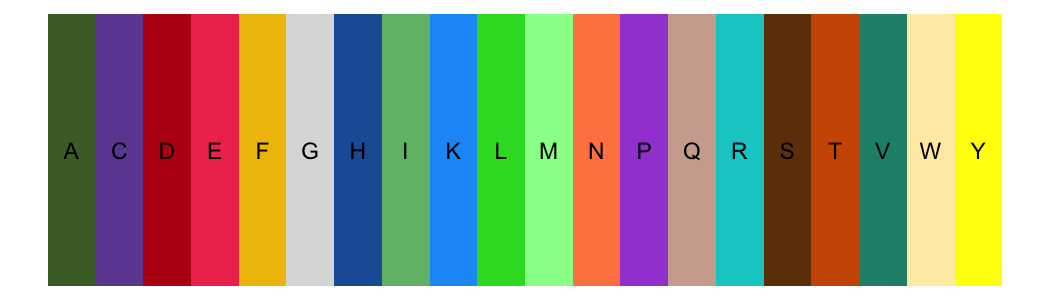
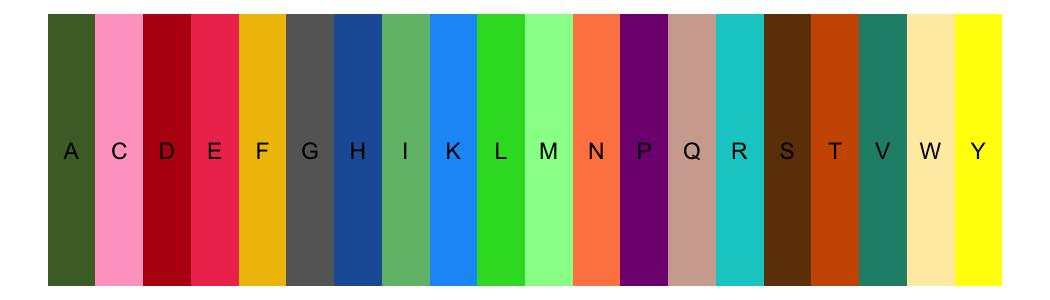
Sync typical palette colours from package_data
Update the typical scheme: C #FFA6C9 (carnation pink), G #666666, P #800080;
deutan min_deltaE 2.4 -> 3.2. Regenerate derived files (CSV, Jalview .jc,
swatches.html, logo, README badges) and, for R, the README + figures.

Changed region(s): [[0.579, 0.03, 0.64, 0.96], [0.2743, 0.03, 0.3352, 0.96], [0.0914, 0.03, 0.1524, 0.96]]

diff --git a/aapalette/README.md b/aapalette/README.md
@@ -5,7 +5,7 @@
 
 <!-- aapalette logo (shields.io coloured residues) -->
 
-![A](https://img.shields.io/static/v1?label=&message=A&color=4C6B30&style=flat-square)![A](https://img.shields.io/static/v1?label=&message=A&color=4C6B30&style=flat-square)![P](https://img.shields.io/static/v1?label=&message=P&color=A44DD7&style=flat-square)![A](https://img.shields.io/static/v1?label=&message=A&color=4C6B30&style=flat-square)![L](https://img.shields.io/static/v1?label=&message=L&color=2ADB2A&style=flat-square)![E](https://img.shields.io/static/v1?label=&message=E&color=EE3B5C&style=flat-square)![T](https://img.shields.io/static/v1?label=&message=T&color=CD5700&style=flat-square)![T](https://img.shields.io/static/v1?label=&message=T&color=CD5700&style=flat-square)![E](https://img.shields.io/static/v1?label=&message=E&color=EE3B5C&style=flat-square)
+![A](https://img.shields.io/static/v1?label=&message=A&color=4C6B30&style=flat-square)![A](https://img.shields.io/static/v1?label=&message=A&color=4C6B30&style=flat-square)![P](https://img.shields.io/static/v1?label=&message=P&color=800080&style=flat-square)![A](https://img.shields.io/static/v1?label=&message=A&color=4C6B30&style=flat-square)![L](https://img.shields.io/static/v1?label=&message=L&color=2ADB2A&style=flat-square)![E](https://img.shields.io/static/v1?label=&message=E&color=EE3B5C&style=flat-square)![T](https://img.shields.io/static/v1?label=&message=T&color=CD5700&style=flat-square)![T](https://img.shields.io/static/v1?label=&message=T&color=CD5700&style=flat-square)![E](https://img.shields.io/static/v1?label=&message=E&color=EE3B5C&style=flat-square)
 
 <!-- badges: start -->
 <!-- badges: end -->
@@ -92,9 +92,9 @@ Get a palette as a named character vector in canonical residue order
 ``` r
 aa_palette("typical")
 #>         A         C         D         E         F         G         H         I 
-#> "#4C6B30" "#6C4BA1" "#B81212" "#EE3B5C" "#EFBF04" "#DCDCDC" "#1E5DA5" "#71BC78" 
+#> "#4C6B30" "#FFA6C9" "#B81212" "#EE3B5C" "#EFBF04" "#666666" "#1E5DA5" "#71BC78" 
 #>         K         L         M         N         P         Q         R         S 
-#> "#1B9AF7" "#2ADB2A" "#98FB98" "#FF8651" "#A44DD7" "#D0AB9D" "#00CCCC" "#6E3D06" 
+#> "#1B9AF7" "#2ADB2A" "#98FB98" "#FF8651" "#800080" "#D0AB9D" "#00CCCC" "#6E3D06" 
 #>         T         V         W         Y 
 #> "#CD5700" "#1F8F78" "#FFECB1" "#FFFF00"
 ```
@@ -137,7 +137,7 @@ gaps are handled automatically):
 
 ``` r
 aa_colour(strsplit("ACDEKR-X", "")[[1]], "typical")
-#> [1] "#4C6B30" "#6C4BA1" "#B81212" "#EE3B5C" "#1B9AF7" "#00CCCC" "#FFFFFF"
+#> [1] "#4C6B30" "#FFA6C9" "#B81212" "#EE3B5C" "#1B9AF7" "#00CCCC" "#FFFFFF"
 #> [8] "#BEBEBE"
 ```
 

diff --git a/README.md b/README.md
@@ -1,7 +1,7 @@
 # aapalette
 
 <!-- aapalette logo (shields.io coloured residues) -->
-![A](https://img.shields.io/static/v1?label=&message=A&color=4C6B30&style=flat-square)![A](https://img.shields.io/static/v1?label=&message=A&color=4C6B30&style=flat-square)![P](https://img.shields.io/static/v1?label=&message=P&color=A44DD7&style=flat-square)![A](https://img.shields.io/static/v1?label=&message=A&color=4C6B30&style=flat-square)![L](https://img.shields.io/static/v1?label=&message=L&color=2ADB2A&style=flat-square)![E](https://img.shields.io/static/v1?label=&message=E&color=EE3B5C&style=flat-square)![T](https://img.shields.io/static/v1?label=&message=T&color=CD5700&style=flat-square)![T](https://img.shields.io/static/v1?label=&message=T&color=CD5700&style=flat-square)![E](https://img.shields.io/static/v1?label=&message=E&color=EE3B5C&style=flat-square)
+![A](https://img.shields.io/static/v1?label=&message=A&color=4C6B30&style=flat-square)![A](https://img.shields.io/static/v1?label=&message=A&color=4C6B30&style=flat-square)![P](https://img.shields.io/static/v1?label=&message=P&color=800080&style=flat-square)![A](https://img.shields.io/static/v1?label=&message=A&color=4C6B30&style=flat-square)![L](https://img.shields.io/static/v1?label=&message=L&color=2ADB2A&style=flat-square)![E](https://img.shields.io/static/v1?label=&message=E&color=EE3B5C&style=flat-square)![T](https://img.shields.io/static/v1?label=&message=T&color=CD5700&style=flat-square)![T](https://img.shields.io/static/v1?label=&message=T&color=CD5700&style=flat-square)![E](https://img.shields.io/static/v1?label=&message=E&color=EE3B5C&style=flat-square)
 
 Consistent, colour-vision-aware **amino-acid colour palettes** for R.
 
